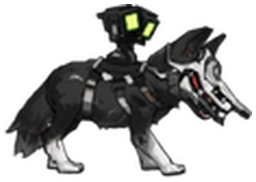
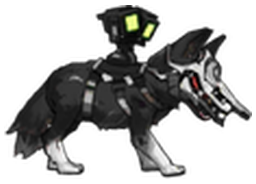
fix: align card portrait canvases for runtime texture compression

diff --git a/tools/package_monster_combat.py b/tools/package_monster_combat.py
@@ -26,8 +26,11 @@ def portrait_from_idle(frame):
     subject = frame.crop(bounds)
     scale = 248 / max(subject.size)
     size = tuple(max(1, round(length * scale)) for length in subject.size)
-    portrait = Image.new('RGBA', (size[0] + 8, size[1] + 8))
-    portrait.paste(subject.resize(size, Image.Resampling.LANCZOS), (4, 4))
+    # Runtime loading compresses textures; both dimensions must align to BC blocks.
+    canvas = tuple((length + 8 + 3) // 4 * 4 for length in size)
+    portrait = Image.new('RGBA', canvas)
+    offset = tuple((outer - inner) // 2 for outer, inner in zip(canvas, size))
+    portrait.paste(subject.resize(size, Image.Resampling.LANCZOS), offset)
     return portrait
 
 

diff --git a/docs/art/ART_STYLE_GUIDE.md b/docs/art/ART_STYLE_GUIDE.md
@@ -4,7 +4,7 @@
 
 用户确认项目外V1对照与十二张预览，以现有维维美、塔露拉的透明角色卡面为准。角色图只包含角色，不烘焙任务编号、边框、名称、费用、验稿说明；名称与实际费用由现有UI绘制。M02～M10复用其透明待机首帧，按Alpha轮廓紧致裁切、等比例缩放、留统一透明边距，保留横向怪物的体型。维维美 / 塔露拉 / 源石虫现有卡面保持，不改变战斗动作。
 
-标准化图片最长边256px、内容最长边248px、四周4px透明留白，另一边随角色宽高比变化，避免卡面内部再次嵌入一张海报。菜单210×344与底部112×144共享同一角色图。`tools/package_monster_combat.py`生成与更新现有运行包时都采用该规则，清单中的portrait校验值同步更新，保留原meta与GUID。
+标准化图片最长边256px、内容最长边248px，四周至少4px透明留白，另一边随角色宽高比变化；画布边长向上对齐4px，兼容现有运行时纹理压缩，不改变主体比例。避免卡面内部再次嵌入一张海报。菜单210×344与底部112×144共享同一角色图。`tools/package_monster_combat.py`生成与更新现有运行包时都采用该规则，清单中的portrait校验值同步更新，保留原meta与GUID。
 
 ## 2026-10-21 人类认可火雨表现预览
 
